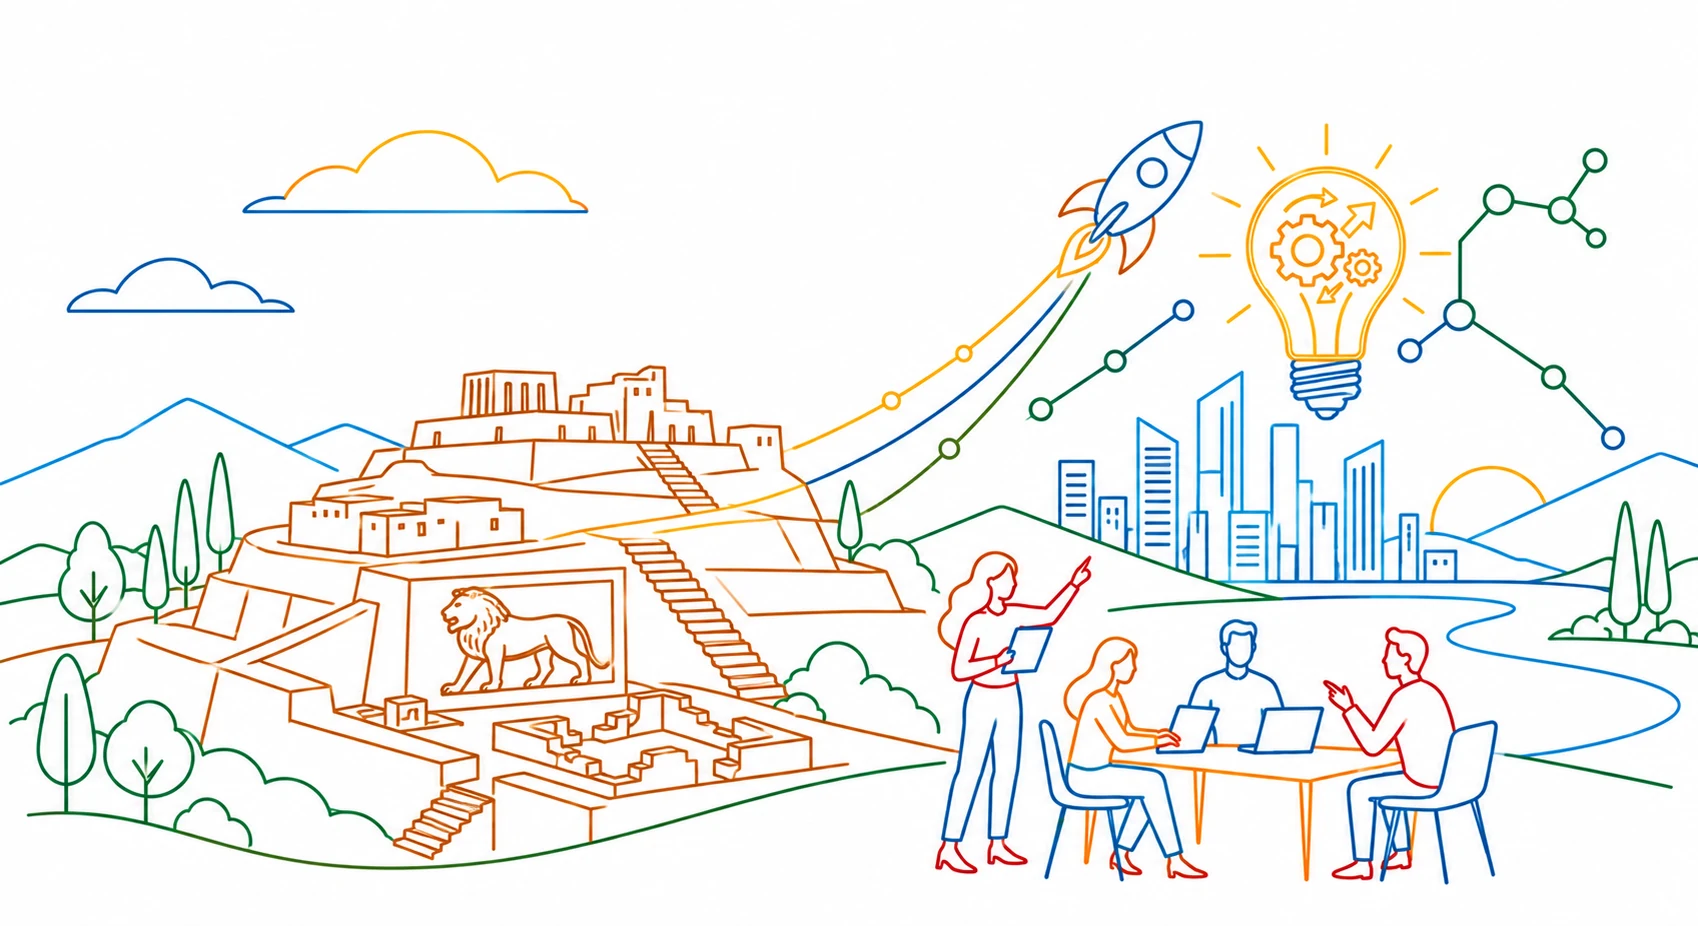
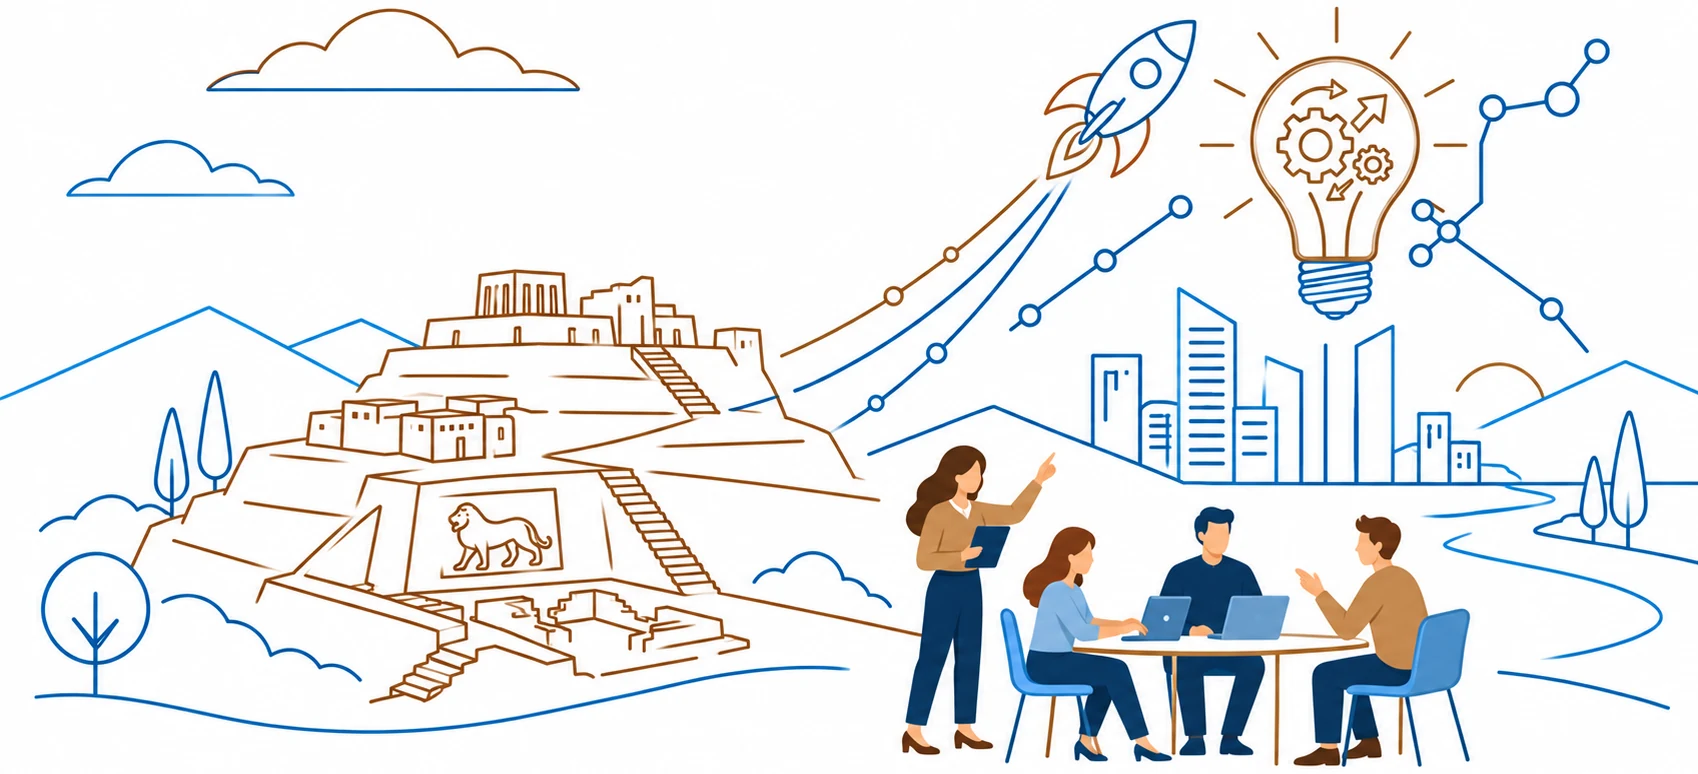
Giriş bölümünü ikinci maket ve yeni ilüstrasyonla birebir eşleştir
Maket 1440x810 tasarımın büyütülmüş hali; tüm konumlar bu ölçekte
piksel karşılaştırmasıyla ayarlandı (öğeler ±4 px içinde).

- Yeni ilüstrasyon (From Ancient Ruins to Innovation), dikeyde kırpılıp WebP.
- Eyebrow "Anadolu’nun Girişimcilik Programı"; sekiz köşeli yıldız (sekizgen
  + üçgen uçlar); alt başlık iki satır; tipografik kesme işareti.
- Lacivert/lavanta/turuncu-bronz renk token'ları (navy, periwinkle, rust).
- Zemin baklavaları maketten ölçülen konum/boyut/renkte.
- Bilgi şeridi: maketteki ikon çizimleri (özel SVG), ayırıcılar 367/697/1013 px.
- Navbar: aslan ikonu + tek satır logo yazısı, menü maketteki sırayla
  (Kimler Katılabilir eklendi; Eğitim Modülleri ve İletişim çıktı), xl'de 94 px.

diff --git a/src/components/site/Hero.tsx b/src/components/site/Hero.tsx
@@ -1,29 +1,78 @@
-import { Fragment } from "react";
-import { ArrowRight, Building2, ChartNoAxesColumnIncreasing, Sprout, Users } from "lucide-react";
+import type { CSSProperties, ReactNode } from "react";
+import { ArrowRight } from "lucide-react";
 import { motion } from "framer-motion";
 import { Link } from "react-router-dom";
 import { Button } from "@/components/ui/button";
 import { useLang } from "@/i18n/LanguageContext";
 import heroIllustration from "@/assets/hero-illustration.webp";
 
-// t.hero.stats ile aynı sırada
-const statIcons = [Sprout, Users, Building2, ChartNoAxesColumnIncreasing];
-
-// Zemindeki yumuşak baklava deseni (dekoratif); mobilde yalnızca sağ üstteki ikili görünür
-const diamonds = [
-  "block -right-10 -top-24 w-44 h-44 lg:right-[7%] lg:-top-20 lg:w-64 lg:h-64 bg-[#faf6f0]",
-  "block -right-24 top-4 w-40 h-40 lg:-right-12 lg:top-14 lg:w-60 lg:h-60 bg-[#f2f6fd]",
-  "hidden lg:block -right-36 top-[42%] w-56 h-56 bg-[#faf6f0]",
-  "hidden lg:block -right-16 bottom-[16%] w-48 h-48 bg-[#f2f6fd]",
-  "hidden lg:block right-[11%] -bottom-32 w-56 h-56 bg-[#faf6f0]",
-  "hidden lg:block -left-40 bottom-[30%] w-56 h-56 bg-[#faf6f0]",
-  "hidden lg:block -left-28 -bottom-16 w-44 h-44 bg-[#f2f6fd]",
+// Zemindeki baklavalar: maketten (1440×810) ölçülen konum, boyut ve renkler.
+// Sağ üst grup üste, sol ve sağ alt gruplar alta sabitlenir; yalnızca lg ve üstünde görünür.
+const diamonds: (CSSProperties & { size: number; color: string })[] = [
+  { right: 164, top: 58, size: 107, color: "#fcf7f2" },
+  { right: 240, top: 133, size: 107, color: "#fdfaf8" },
+  { right: 58, top: 98, size: 129, color: "#ecf4fb" },
+  { right: -57, top: 187, size: 155, color: "#f9f4f1" },
+  { right: 53, top: 295, size: 134, color: "#f5f9fd" },
+  { left: -83, bottom: 358, size: 124, color: "#fdfbf9" },
+  { left: -39, bottom: 177, size: 124, color: "#fbf5f0" },
+  { left: 48, bottom: 81, size: 97, color: "#fdfbfa" },
+  { right: 32, bottom: 61, size: 97, color: "#fdfaf7" },
+  { right: -40, bottom: 128, size: 102, color: "#f6fafd" },
 ];
 
+function Icon({ children, className }: { children: ReactNode; className?: string }) {
+  return (
+    <svg viewBox="0 0 48 48" fill="none" stroke="currentColor" strokeWidth={2.4} strokeLinecap="round" strokeLinejoin="round" className={className} aria-hidden>
+      {children}
+    </svg>
+  );
+}
+
+// Bilgi şeridi ikonları (maketteki çizimler); t.hero.stats ile aynı sırada
+const statIcons: ReactNode[] = [
+  // Fidan
+  <>
+    <path d="M24 46V20" />
+    <path d="M24 31C24 19.5 16.5 12 4.5 11.5 4.5 23 12 31 24 31Z" />
+    <path d="M24 31 11 18.5" />
+    <path d="M24 22C24 10.5 31.5 3 43.5 2.5 43.5 14 36 22 24 22Z" />
+    <path d="M24 22 37 9.5" />
+  </>,
+  // Üç kişilik ekip
+  <>
+    <circle cx="24" cy="15.5" r="7.5" />
+    <path d="M9.5 45V41C9.5 33 16 27.5 24 27.5S38.5 33 38.5 41V45" />
+    <path d="M15.2 7.8A7 7 0 0 0 12.5 21.6" />
+    <path d="M3 41C3 34.5 6.5 30.5 11.5 29" />
+    <path d="M32.8 7.8A7 7 0 0 1 35.5 21.6" />
+    <path d="M45 41C45 34.5 41.5 30.5 36.5 29" />
+  </>,
+  // Bina
+  <>
+    <path d="M3 45H45" />
+    <path d="M7 45V4H29V45" />
+    <path d="M29 16H40V45" />
+    <path d="M15 45V36H21V45" />
+    {[11.5, 18, 24.5].flatMap((y) => [11, 16.5, 22].map((x) => <rect key={`${x}-${y}`} x={x} y={y} width="3" height="3" fill="currentColor" stroke="none" />))}
+    <rect x="33" y="22" width="3" height="3" fill="currentColor" stroke="none" />
+    <rect x="33" y="30" width="3" height="3" fill="currentColor" stroke="none" />
+  </>,
+  // Yükselen sütunlar
+  <>
+    <path d="M3 45H45" />
+    <path d="M8 45V29H16V45" />
+    <path d="M20 45V18H28V45" />
+    <path d="M32 45V5H40V45" />
+  </>,
+];
+
+// Maketteki sekiz köşeli yıldız: ortada sekizgen, her kenarında sivri bir üçgen
 function EightPointStar({ className }: { className?: string }) {
   return (
-    <svg viewBox="0 0 24 24" fill="none" stroke="currentColor" strokeWidth={1.5} strokeLinejoin="round" className={className} aria-hidden>
-      <polygon points="12,2 14.3,6.46 19.07,4.93 17.54,9.7 22,12 17.54,14.3 19.07,19.07 14.3,17.54 12,22 9.7,17.54 4.93,19.07 6.46,14.3 2,12 6.46,9.7 4.93,4.93 9.7,6.46" />
+    <svg viewBox="0 0 24 24" fill="none" stroke="currentColor" strokeWidth={1.1} strokeLinejoin="miter" className={className} aria-hidden>
+      <polygon points="12,2 14.37,6.27 19.07,4.93 17.73,9.63 22,12 17.73,14.37 19.07,19.07 14.37,17.73 12,22 9.63,17.73 4.93,19.07 6.27,14.37 2,12 6.27,9.63 4.93,4.93 9.63,6.27" />
+      <polygon points="14.37,6.27 17.73,9.63 17.73,14.37 14.37,17.73 9.63,17.73 6.27,14.37 6.27,9.63 9.63,6.27" />
     </svg>
   );
 }
@@ -37,69 +86,65 @@ const reveal = (delay = 0) => ({
 
 export default function Hero() {
   const { t } = useLang();
+  const [taglineTop, taglineBottom] = t.hero.tagline;
   return (
     <section id="top" className="relative overflow-hidden bg-white">
-      <div className="pointer-events-none absolute inset-0" aria-hidden>
-        {diamonds.map((d, i) => (
-          <i key={i} className={`absolute rotate-45 rounded-[36px] ${d}`} />
+      <div className="pointer-events-none absolute inset-0 hidden lg:block" aria-hidden>
+        {diamonds.map(({ size, color, ...pos }, i) => (
+          <i key={i} className="absolute block rotate-45 rounded-[5px]" style={{ ...pos, width: size, height: size, background: color }} />
         ))}
       </div>
 
-      <div className="container relative flex flex-col pt-28 pb-14 md:pt-32 lg:min-h-[100svh] lg:pb-12">
-        <div className="grid flex-1 items-center gap-12 lg:grid-cols-2 lg:gap-10">
+      <div className="container relative flex flex-col pt-28 pb-14 md:pt-32 lg:pt-[105px] lg:min-h-[100svh] lg:pb-12">
+        <div className="grid flex-1 items-center gap-12 lg:grid-cols-[minmax(0,586fr)_minmax(0,670fr)] lg:gap-0 lg:px-10">
           <motion.div {...reveal()}>
-            <span className="inline-flex items-center gap-3 text-bronze-deep text-xs md:text-[15px] font-medium uppercase tracking-[0.24em] mb-6">
-              <EightPointStar className="w-6 h-6 shrink-0" /> {t.hero.eyebrow}
+            <span className="inline-flex items-center gap-[10px] text-rust text-xs md:text-[15px] font-medium uppercase tracking-[0.2em] lg:-ml-5">
+              <EightPointStar className="w-8 h-8 lg:w-10 lg:h-10 shrink-0" /> {t.hero.eyebrow}
             </span>
-            <h1 className="font-display text-5xl sm:text-6xl lg:text-6xl xl:text-7xl font-bold tracking-tight text-navy leading-[1.02]">
+            <h1 className="mt-8 lg:mt-[23px] font-display text-5xl sm:text-6xl lg:text-[56px] xl:text-[68px] font-semibold tracking-[-0.01em] text-navy leading-none">
               {t.hero.title}
             </h1>
-            <p className="mt-4 max-w-xl font-display text-3xl sm:text-4xl xl:text-5xl text-navy leading-[1.12]">
-              {t.hero.tagline}
+            <p className="mt-4 font-display text-3xl sm:text-4xl lg:text-[32px] xl:text-[39px] font-medium text-navy leading-[1.1] lg:leading-[36px] xl:leading-[44px]">
+              {taglineTop} <br className="hidden lg:inline" />
+              {taglineBottom}
             </p>
-            <p className="mt-6 max-w-xl text-lg md:text-2xl text-navy/70 leading-snug">
+            <p className="mt-6 lg:mt-[27px] max-w-[490px] text-lg md:text-2xl lg:text-[21px] xl:text-[24.5px] text-periwinkle leading-[1.2] lg:leading-[25px] xl:leading-[28px]">
               {t.hero.subtitle}
             </p>
-            <div className="mt-9 flex flex-wrap gap-4">
-              <Button asChild size="lg" className="bg-bronze-deep text-white hover:bg-bronze-deep/90 h-14 px-8 text-lg font-medium">
-                <Link to="/apply">{t.hero.cta1} <ArrowRight className="ml-2 w-5 h-5" /></Link>
+            <div className="mt-8 lg:mt-[29px] flex flex-wrap gap-5">
+              <Button asChild size="lg" className="bg-bronze-deep text-white hover:bg-bronze-deep/90 h-14 lg:h-[57px] w-[220px] lg:w-[200px] xl:w-[220px] px-0 text-[19px] font-normal">
+                <Link to="/apply">{t.hero.cta1} <ArrowRight className="ml-3 w-5 h-5" strokeWidth={1.75} /></Link>
               </Button>
-              <Button asChild size="lg" variant="outline" className="bg-white border-[1.5px] border-navy text-navy hover:bg-navy/5 hover:text-navy h-14 px-12 text-lg font-medium">
+              <Button asChild size="lg" variant="outline" className="bg-white border-2 border-navy text-navy hover:bg-navy/5 hover:text-navy h-14 lg:h-[57px] w-[235px] lg:w-[215px] xl:w-[235px] px-0 text-[19px] font-semibold">
                 <a href="#program">{t.hero.cta2}</a>
               </Button>
             </div>
           </motion.div>
 
-          {/* İlüstrasyonun beyaz zemini multiply ile arkadaki zemine karışır; kutu gibi görünmez.
-              Mobilde kenardan kenara uzanır; masaüstünde kenarda kesilen çizgiler maskeyle söner. */}
+          {/* İlüstrasyonun zemini beyaz; multiply arkadaki baklavaların üstünde kutu izi bırakmaz.
+              Mobilde kenardan kenara uzanır; masaüstünde kenara değen çizgiler maskeyle söner. */}
           <motion.img
             src={heroIllustration}
             alt="Arslantepe Höyüğü'nden yükselen roket, fikir ampulü ve şehir silueti; masa başında çalışan girişimciler"
             width={1698}
-            height={926}
+            height={774}
             fetchPriority="high"
-            className="-mx-8 w-[calc(100%+4rem)] max-w-none h-auto mix-blend-multiply lg:mx-0 lg:w-full lg:[mask-image:linear-gradient(to_right,transparent,#000_6%,#000_94%,transparent)]"
+            className="-mx-8 w-[calc(100%+4rem)] max-w-none h-auto mix-blend-multiply lg:mx-0 lg:w-full lg:mt-[67px] lg:-mb-[67px] lg:[mask-image:linear-gradient(to_right,transparent,#000_5%,#000_95%,transparent)]"
             {...reveal(0.15)}
           />
         </div>
 
-        {/* xl'de sütunlar içerik genişliğinde; justify-between ayırıcı çizgileri öğelerin arasına ortalar */}
-        <motion.div {...reveal(0.3)} className="mt-14 grid gap-y-8 sm:grid-cols-2 lg:mt-12 xl:flex xl:items-center xl:justify-between">
-          {t.hero.stats.map((s, i) => {
-            const Icon = statIcons[i];
-            return (
-              <Fragment key={s.value}>
-                {i > 0 && <span className="hidden xl:block w-px self-stretch bg-navy/15" aria-hidden />}
-                <div className="flex items-center gap-5">
-                  <Icon className="w-12 h-12 shrink-0 text-bronze-deep" strokeWidth={1.25} aria-hidden />
-                  <div className="xl:whitespace-nowrap">
-                    <p className="font-display text-xl font-semibold text-navy">{s.value}</p>
-                    <p className="mt-1 text-xs font-medium uppercase tracking-[0.14em] text-navy/65">{s.label}</p>
-                  </div>
-                </div>
-              </Fragment>
-            );
-          })}
+        {/* Sütun genişlikleri maketteki ayırıcı çizgilerin konumundan (1440'ta 367 / 697 / 1013 px) */}
+        <motion.div {...reveal(0.3)} className="mt-14 grid gap-y-8 sm:grid-cols-2 lg:mt-12 xl:grid-cols-[284fr_330fr_316fr_350fr] xl:pl-[31px] xl:pr-[25px]">
+          {t.hero.stats.map((s, i) => (
+            <div key={s.value} className={`flex items-center gap-[23px] xl:min-h-[64px] ${i > 0 ? "xl:border-l xl:border-periwinkle/50 xl:pl-[37px]" : ""}`}>
+              <Icon className="w-[50px] h-[50px] shrink-0 text-rust">{statIcons[i]}</Icon>
+              <div className="xl:whitespace-nowrap">
+                <p className="font-display text-xl xl:text-[19px] font-semibold text-navy">{s.value}</p>
+                <p className="mt-1.5 text-[13px] xl:text-[12.4px] font-medium uppercase tracking-[0.12em] text-periwinkle-deep">{s.label}</p>
+              </div>
+            </div>
+          ))}
         </motion.div>
       </div>
     </section>

diff --git a/src/components/site/Navbar.tsx b/src/components/site/Navbar.tsx
@@ -3,22 +3,31 @@ import { ArrowRight, Menu, X } from "lucide-react";
 import { Link, useLocation } from "react-router-dom";
 import { Button } from "@/components/ui/button";
 import { useLang } from "@/i18n/LanguageContext";
-import logo from "@/assets/logo-full.png";
+import lion from "@/assets/logo-lion-tight.png";
 
 type NavItem =
-  | { key: "about" | "program" | "modules" | "timeline" | "supporters" | "faq" | "contact"; type: "anchor" }
+  | { key: "about" | "program" | "who" | "timeline" | "supporters" | "faq"; type: "anchor" }
   | { key: "mentors"; type: "page"; to: string };
 
 const navItems: NavItem[] = [
   { key: "about", type: "anchor" },
   { key: "program", type: "anchor" },
-  { key: "modules", type: "anchor" },
+  { key: "who", type: "anchor" },
   { key: "mentors", type: "page", to: "/mentors" },
   { key: "timeline", type: "anchor" },
   { key: "supporters", type: "anchor" },
   { key: "faq", type: "anchor" },
-  { key: "contact", type: "anchor" },
 ];
+
+// Resmi aslan ikonu + tek satır yazı (giriş bölümü maketindeki logo düzeni)
+function Brand() {
+  return (
+    <span className="flex items-center gap-3 xl:ml-6 xl:gap-4">
+      <img src={lion} alt="" className="h-10 xl:h-[49px] w-auto" width={278} height={494} />
+      <span className="font-display text-[22px] xl:text-[31px] font-medium leading-none text-bronze-deep whitespace-nowrap">Arslantepe Spark</span>
+    </span>
+  );
+}
 
 export default function Navbar() {
   const { t } = useLang();
@@ -57,28 +66,28 @@ export default function Navbar() {
 
   return (
     <header className={`fixed top-0 inset-x-0 z-50 transition-all duration-300 ${scrolled ? "bg-ivory/85 backdrop-blur-md border-b border-border shadow-soft" : "bg-transparent"}`}>
-      <nav className="container flex items-center justify-between h-16 md:h-20" aria-label="Birincil">
+      <nav className="container flex items-center justify-between h-16 md:h-20 xl:h-[94px]" aria-label="Birincil">
         {isHome ? (
-          <a href="#top" className="flex items-center group">
-            <img src={logo} alt="Arslantepe Spark — Girişim Hızlandırma Programı" className="h-9 md:h-11 w-auto object-contain" width={463} height={93} />
+          <a href="#top" className="flex items-center group" aria-label="Arslantepe Spark — Girişim Hızlandırma Programı">
+            <Brand />
           </a>
         ) : (
-          <Link to="/" className="flex items-center group">
-            <img src={logo} alt="Arslantepe Spark — Girişim Hızlandırma Programı" className="h-9 md:h-11 w-auto object-contain" width={463} height={93} />
+          <Link to="/" className="flex items-center group" aria-label="Arslantepe Spark — Girişim Hızlandırma Programı">
+            <Brand />
           </Link>
         )}
 
-        <ul className="hidden xl:flex items-center gap-7 text-sm">
+        <ul className="hidden xl:flex xl:ml-[6px] items-center gap-[26px] text-[13px] font-medium">
           {navItems.map((item) => (
             <li key={item.key}>
-              {renderItem(item, "text-navy/80 hover:text-bronze-deep transition-colors")}
+              {renderItem(item, "text-navy hover:text-bronze-deep transition-colors")}
             </li>
           ))}
         </ul>
 
         <div className="hidden xl:flex items-center gap-3">
-          <Button asChild variant="default" className="bg-bronze-deep hover:bg-bronze-deep/90 text-white h-11 px-6 text-[15px]">
-            <Link to="/apply">{t.nav.apply} <ArrowRight className="ml-2 w-4 h-4" /></Link>
+          <Button asChild variant="default" className="bg-bronze-deep hover:bg-bronze-deep/90 text-white h-[47px] w-[149px] px-0 text-[17px] font-normal">
+            <Link to="/apply">{t.nav.apply} <ArrowRight className="ml-3 w-[18px] h-[18px]" strokeWidth={1.75} /></Link>
           </Button>
         </div>
 

diff --git a/src/i18n/translations.ts b/src/i18n/translations.ts
@@ -4,6 +4,7 @@ export const translations = {
       about: "Program Hakkında",
       program: "Program Hedefleri",
       modules: "Eğitim Modülleri",
+      who: "Kimler Katılabilir",
       mentors: "Mentorlarımız",
       timeline: "Takvim",
       supporters: "Destekleyenler",
@@ -12,10 +13,11 @@ export const translations = {
       apply: "Başvur",
     },
     hero: {
-      eyebrow: "Anadolu'nun Girişimcilik Hareketi",
+      eyebrow: "Anadolu’nun Girişimcilik Programı",
       title: "Arslantepe Spark",
-      tagline: "Anadolu'dan doğan teknoloji ve inovasyon kıvılcımı.",
-      subtitle: "Malatya merkezli, Anadolu'nun girişimcilerini destekleyen yoğun bir hızlandırma programı.",
+      // Masaüstünde iki satır (maketteki kırılım), dar ekranda doğal akış
+      tagline: ["Anadolu’dan doğan", "teknoloji ve inovasyon kıvılcımı."],
+      subtitle: "Malatya merkezli, Anadolu’nun girişimcilerini destekleyen yoğun bir hızlandırma programı.",
       cta1: "Hemen Başvur",
       cta2: "Programı İncele",
       stats: [
@@ -31,6 +33,7 @@ export const translations = {
       about: "About",
       program: "Goals",
       modules: "Modules",
+      who: "Who Can Apply",
       mentors: "Our Mentors",
       timeline: "Timeline",
       supporters: "Supporters",
@@ -39,9 +42,9 @@ export const translations = {
       apply: "Apply Now",
     },
     hero: {
-      eyebrow: "Entrepreneurship Movement of Anatolia",
+      eyebrow: "Anatolia's Entrepreneurship Program",
       title: "Arslantepe Spark",
-      tagline: "The tech and innovation spark born in Anatolia.",
+      tagline: ["The tech and innovation", "spark born in Anatolia."],
       subtitle: "A Malatya-based intensive acceleration program supporting Anatolia's entrepreneurs.",
       cta1: "Apply Now",
       cta2: "Explore Program",

diff --git a/src/index.css b/src/index.css
@@ -11,8 +11,12 @@
     --ivory: 40 15% 98%; /* #fbfaf7 */
     --bronze: 31 38% 52%; /* #b58255 */
     --bronze-glow: 31 80% 65%;
-    --bronze-deep: 32 50% 41%; /* #9c6c34 — beyaz yazıyla 4.5:1 kontrast */
-    --navy: 210 50% 14%; /* #122436 */
+    /* Giriş bölümü maketinin renkleri */
+    --bronze-deep: 26 56% 43%; /* #aa6430 — maketteki #b06c34'ün beyaz yazıyla 4.5:1 veren tonu */
+    --rust: 26 78% 40%; /* #b45a16 — eyebrow, yıldız ve şerit ikonları */
+    --navy: 226 77% 17%; /* #0a1a4d */
+    --periwinkle: 224 32% 59%; /* #7486b8 — büyük gövde metni (3:1 üstü) */
+    --periwinkle-deep: 225 28% 51%; /* #5f71a6 — küçük etiketler (4.5:1 üstü) */
 
     --card: 0 0% 100%;
     --card-foreground: 40 10% 11%;

diff --git a/tailwind.config.js b/tailwind.config.js
@@ -33,7 +33,12 @@ export default {
         },
         "bronze-glow": "hsl(var(--bronze-glow))",
         "bronze-deep": "hsl(var(--bronze-deep))",
+        rust: "hsl(var(--rust))",
         navy: "hsl(var(--navy))",
+        periwinkle: {
+          DEFAULT: "hsl(var(--periwinkle))",
+          deep: "hsl(var(--periwinkle-deep))",
+        },
         primary: {
           DEFAULT: "hsl(var(--primary))",
           foreground: "hsl(var(--primary-foreground))",
